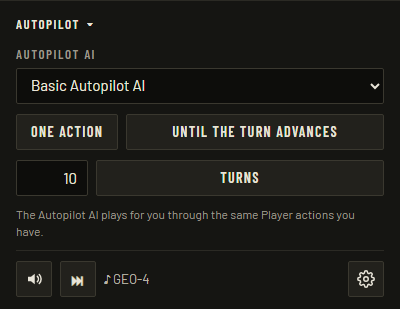
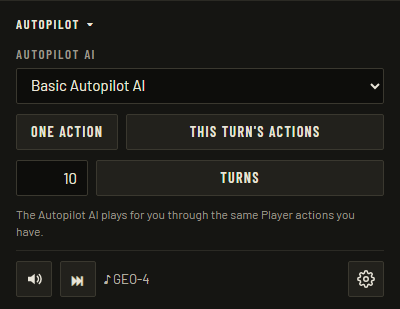
Redesign Autopilot limits: one action, this Turn's actions, or N Turns
singleAction no longer commits Advance turn, turnActions replaces
untilTurnAdvanced and stops short of advancing the Turn, and turnAdvancements
takes a count of at least 1. Under the first two limits the engine withholds
the Advance turn the Autopilot AI requests and ends the engagement with the
new disengagement reason Advance turn withheld, so the player is told when
Autopilot has nothing more to do in the Turn.

The Campaign screen names the controls One action and This Turn's actions and
shows a line when an engagement ends; the Autopilot footer Artboard is redrawn.

Changed region(s): [[0.42, 0.4078, 0.84, 0.466]]

diff --git a/docs/specs/design/foundation/autopilot.md b/docs/specs/design/foundation/autopilot.md
@@ -12,7 +12,7 @@
 
 Autopilot lets the player hand play over to an AI for a while and then take it back, e.g. to let an [Autopilot AI](engine-contract.md#principals-and-access) play out the next few [Turns](engine-contract.md#player-actions-and-turns). During each [Autopilot engagement](engine-contract.md#autopilot), the Autopilot AI plays the [Current campaign](core-concepts.md#campaign-and-session) through [Player API](engine-contract.md#api-surfaces) in place of the [Session controller](engine-contract.md#principals-and-access), as the [Engine Contract glossary](engine-contract.md#glossary) defines it.
 
-The guiding principle is that an Autopilot AI plays as an ordinary player would, and no further. It receives only [Player-visible information](engine-contract.md#api-surfaces), and it never learns when its Autopilot engagement will end. The Session controller fixes that end in advance as an Autopilot limit, counted in [Player actions](engine-contract.md#player-actions-and-turns) or Turn advancements, and can disengage [Autopilot](engine-contract.md#autopilot) sooner. What the Autopilot AI plans beyond one Autopilot engagement it keeps in [Autopilot memory](engine-contract.md#persisted-data), which moves with the [Campaign](core-concepts.md#campaign-and-session) through undo, redo, and load, so it never holds a plan written at an [Undone action](timeline.md#glossary).
+The guiding principle is that an Autopilot AI plays as an ordinary player would, and no further. It receives only [Player-visible information](engine-contract.md#api-surfaces), and it never learns when its Autopilot engagement will end. The Session controller fixes that end in advance as an Autopilot limit, i.e. one [Player action](engine-contract.md#player-actions-and-turns), the Player actions of the current Turn, or a number of Turn advancements, and can disengage [Autopilot](engine-contract.md#autopilot) sooner. When the Autopilot limit leaves the end of the Turn to the player, the engine withholds the Advance turn the Autopilot AI requests and hands play back. What the Autopilot AI plans beyond one Autopilot engagement it keeps in [Autopilot memory](engine-contract.md#persisted-data), which moves with the [Campaign](core-concepts.md#campaign-and-session) through undo, redo, and load, so it never holds a plan written at an [Undone action](timeline.md#glossary).
 
 # Glossary
 
@@ -20,9 +20,9 @@ These terms are specific to [Autopilot](engine-contract.md#autopilot). General t
 
 | Term | Definition | Prohibited synonyms |
 | --- | --- | --- |
-| Autopilot limit | The bound on an [Autopilot engagement](engine-contract.md#autopilot), fixed when Autopilot is engaged and measured in [Player actions](engine-contract.md#player-actions-and-turns) or [Turn](engine-contract.md#player-actions-and-turns) advancements. | Delegation scope |
+| Autopilot limit | The bound on an [Autopilot engagement](engine-contract.md#autopilot), fixed when Autopilot is engaged: one [Player action](engine-contract.md#player-actions-and-turns) other than Advance turn, the Player actions of the current [Turn](engine-contract.md#player-actions-and-turns), or a number of Turn advancements. | Delegation scope |
 | Autopilot engagement ID | The Independent identifier identifying one Autopilot engagement, assigned when Autopilot is engaged. |  |
-| Autopilot progress | The Player actions and Turn advancements counted toward the Autopilot limit in the current Autopilot engagement, reported to the [Session controller](engine-contract.md#principals-and-access). The [Autopilot AI](engine-contract.md#principals-and-access) does not receive it. |  |
+| Autopilot progress | The number of Player actions other than Advance turn and the number of Advance turn actions that have committed in the current Autopilot engagement, reported to the [Session controller](engine-contract.md#principals-and-access). The [Autopilot AI](engine-contract.md#principals-and-access) does not receive it. |  |
 
 # Available Autopilot AIs
 
@@ -36,17 +36,19 @@ Listing needs no Current campaign, changes nothing, and is not a Player action. 
 
 # Autopilot limits
 
-`session.autopilot.engage(autopilotAiId, limit)` engages Autopilot for the Current campaign. At most one Autopilot engagement may be active in a [Session](core-concepts.md#campaign-and-session). The complete Autopilot limit inventory is:
+`session.autopilot.engage(autopilotAiId, limit)` engages Autopilot for the Current campaign. At most one Autopilot engagement may be active in a [Session](core-concepts.md#campaign-and-session).
 
-| Autopilot limit | Input | Successful completion |
-| --- | --- | --- |
-| `singleAction` | No action count | One [Player API](engine-contract.md#api-surfaces) action successfully commits, including Advance turn if chosen. |
-| `untilTurnAdvanced` | No Turn count | The first Advance turn action successfully commits, after any preceding Player actions. |
-| `turnAdvancements` | A positive integer `count` | Exactly `count` Advance turn actions successfully commit. |
+An Autopilot AI ends each Turn it plays by requesting Advance turn once it has no other Player action to make, as a player does; it does not know its Autopilot limit, under [What an Autopilot AI receives](#what-an-autopilot-ai-receives). Each Autopilot limit therefore states whether the engine commits that Advance turn or withholds it. The complete Autopilot limit inventory is:
 
-Only Player actions or Turn advancements count toward an Autopilot limit; e.g., a query or a rejected action counts toward none. Autopilot disengages immediately at its Autopilot limit; another mutation through that Autopilot engagement is rejected.
+| Autopilot limit | Input | A requested Advance turn | The Autopilot engagement ends normally when |
+| --- | --- | --- | --- |
+| `singleAction` | None | Is withheld | One [Player API](engine-contract.md#api-surfaces) action other than Advance turn commits, with the disengagement reason limit reached; or the Autopilot AI requests Advance turn first, with the disengagement reason Advance turn withheld and no Player action committed. |
+| `turnActions` | None | Is withheld | The Autopilot AI requests Advance turn, with the disengagement reason Advance turn withheld, after any number of Player actions, including none. |
+| `turnAdvancements` | A whole number `count` of at least 1 | Commits | The `count`-th Advance turn commits, with the disengagement reason limit reached. |
 
-A malformed Autopilot limit or an unavailable Autopilot AI rejects engagement without changing [Campaign state](core-concepts.md#campaign-and-session) or creating an active Autopilot engagement.
+A withheld Advance turn is not committed: it changes no [Campaign state](core-concepts.md#campaign-and-session), [Timeline](engine-contract.md#persisted-data), or Autopilot memory, and it is neither a Player action nor a rejected action. An Advance turn request that the engine would reject is rejected as any other action is and withholds nothing. Autopilot progress counts only committed Player actions; e.g., a query, a rejected action, a withheld Advance turn, and an Autopilot memory write count toward none. Autopilot disengages immediately when its Autopilot limit is reached or an Advance turn is withheld; another mutation through that Autopilot engagement is rejected.
+
+A malformed Autopilot limit, e.g. `turnAdvancements` with a `count` of 0, or an unavailable Autopilot AI rejects engagement without changing [Campaign state](core-concepts.md#campaign-and-session) or creating an active Autopilot engagement.
 
 # What an Autopilot engagement holds
 
@@ -65,13 +67,13 @@ An active Autopilot engagement holds nothing else; e.g., it holds no wall-clock 
 
 During its Autopilot engagement, an Autopilot AI may make Player API queries, Player API actions, and [Autopilot memory API](engine-contract.md#api-surfaces) operations, under [API hierarchy](engine-contract.md#api-hierarchy). The engine supplies it nothing beyond [Player-visible information](engine-contract.md#api-surfaces) and the Autopilot memory, e.g. no [Developer API](engine-contract.md#api-surfaces) result and no Campaign save.
 
-The Autopilot AI does not receive its Autopilot limit or Autopilot progress, so it plays for the [Campaign](core-concepts.md#campaign-and-session) as a whole rather than toward the end of the Autopilot engagement; a plan extending beyond the Autopilot limit is carried forward in Autopilot memory. The Autopilot AI never decides when an Autopilot engagement ends: it ends only for a disengagement reason under [Autopilot lifecycle and concurrency](#autopilot-lifecycle-and-concurrency).
+The Autopilot AI does not receive its Autopilot limit or Autopilot progress, so it plays for the [Campaign](core-concepts.md#campaign-and-session) as a whole rather than toward the end of the Autopilot engagement; a plan extending beyond the Autopilot limit is carried forward in Autopilot memory. The Autopilot AI has no operation that ends an Autopilot engagement: the engine judges its requests against the Autopilot limit it does not know, and the Autopilot engagement ends only for a disengagement reason under [Autopilot lifecycle and concurrency](#autopilot-lifecycle-and-concurrency).
 
 Each Autopilot engagement starts with only Player-visible information and the Autopilot memory. Nothing else carries over into it, e.g. nothing from an earlier Autopilot engagement or from an Undone action.
 
 # Autopilot lifecycle and concurrency
 
-`session.autopilot.getStatus(engagementId)` reports the Autopilot limit, Autopilot progress, and execution status to the Session controller. The complete disengagement reason inventory is limit reached, disengaged by controller, campaign ended, and AI failed. A disengagement result identifies the reason, whether the Autopilot limit was reached, and Autopilot progress. Campaign completion before the Autopilot limit is reached disengages with campaign ended; reaching the Autopilot limit on the same action takes precedence as limit reached. Autopilot disengages as AI failed when the Autopilot AI reports an error, produces no valid action, or exhausts its configured finite execution budget. That budget prevents indefinitely repeated invalid actions or an Autopilot AI that makes no progress; its exact limits are listed under [TODOs](#todos).
+`session.autopilot.getStatus(engagementId)` reports the Autopilot limit, Autopilot progress, and execution status to the Session controller. The complete disengagement reason inventory is limit reached, Advance turn withheld, disengaged by controller, campaign ended, and AI failed; [Autopilot limits](#autopilot-limits) states when the first two apply. A disengagement result identifies the reason and Autopilot progress, so the Session controller can tell, e.g., that Advance turn withheld with no Player action committed means the Autopilot AI had nothing more to do this Turn. Campaign completion before the Autopilot limit is reached disengages with campaign ended; reaching the Autopilot limit on the same action takes precedence as limit reached. Autopilot disengages as AI failed when the Autopilot AI reports an error, produces no valid action, or exhausts its configured finite execution budget. That budget prevents indefinitely repeated invalid actions, an Autopilot AI that makes no progress, and one that never requests Advance turn; its exact limits are listed under [TODOs](#todos).
 
 Campaign mutations are serialized. During an Autopilot engagement, the Session controller may read Player API queries, Session status, [Timeline](engine-contract.md#persisted-data) status, and Autopilot status, read and change [Global configuration](engine-contract.md#persisted-data), and disengage Autopilot. All other [Session API](engine-contract.md#api-surfaces) operations, Session controller gameplay mutations, and [Developer API](engine-contract.md#api-surfaces) operations are unavailable until disengagement completes. `session.autopilot.disengage(engagementId)` requests disengagement between atomic actions. An action already executing either commits completely or fails without effects. Disengagement never implicitly ends a Turn or undoes earlier Player actions. Failure of the Autopilot AI follows the same boundary rule. A late response from a completed Autopilot engagement cannot change Campaign state or write Autopilot memory. Timeline navigation remains available after disengagement.
 
@@ -81,7 +83,7 @@ Engaging Autopilot writes an [Autosave](saves.md#autosave-kinds), and no [Turn-e
 
 A Campaign has at most one Autopilot memory, and that Autopilot memory records which Autopilot AI wrote it. A newly created Campaign has no Autopilot memory.
 
-`autopilotMemory.read()` returns the Autopilot memory most recently written at or before the current Committed state, or an explicit absence when there is none. `autopilotMemory.write(memory)` atomically replaces the Autopilot memory. Writing is not a Timeline entry, does not change Campaign state or any gameplay outcome, and does not count toward the Autopilot limit. Only the active Autopilot AI can read or write Autopilot memory; the Session controller cannot inject knowledge through Autopilot memory API.
+`autopilotMemory.read()` returns the Autopilot memory most recently written at or before the current Committed state, or an explicit absence when there is none. `autopilotMemory.write(memory)` atomically replaces the Autopilot memory. Writing is not a Timeline entry, does not change Campaign state or any gameplay outcome, and does not count in Autopilot progress. Only the active Autopilot AI can read or write Autopilot memory; the Session controller cannot inject knowledge through Autopilot memory API.
 
 Engaging Autopilot with an Autopilot AI other than the one that wrote the Autopilot memory discards that Autopilot memory at engagement, at every Committed state the Timeline can restore. The newly engaged Autopilot AI reads absence until it writes. Campaign saves written earlier are unchanged.
 
@@ -95,6 +97,8 @@ A Campaign save holds the Autopilot memory under [Campaign save contents](saves.
 
 # Edge cases and failure behavior
 
+An Autopilot engagement can end with no Player action committed, e.g. under `singleAction` or `turnActions` when the Autopilot AI first requests Advance turn, or when the Session controller disengages before any action commits. It then leaves Campaign state and the Timeline as they were, though the Autopilot AI may have written Autopilot memory, and it still writes its Autosaves, under [Autosaves](saves.md#autosaves) in Saves.
+
 Autopilot disengagement and failure of the Autopilot AI preserve every Player action. An Autopilot AI that calls an operation outside its access is rejected without changing anything, under [Committed state integrity](engine-contract.md#committed-state-integrity).
 
 Timeline navigation cannot erase what a human has seen. The information the engine itself supplies to an Autopilot AI nevertheless follows [What an Autopilot AI receives](#what-an-autopilot-ai-receives).
@@ -104,7 +108,7 @@ Timeline navigation cannot erase what a human has seen. The information the engi
 - **Listing Autopilot AIs:** With Autopilot AIs X and Y available and no Current campaign, `listAutopilotAis()` reports X and Y. Create a Campaign, engage Autopilot with X, which writes Autopilot memory, and wait for disengagement. `listAutopilotAis()` reports X as the one that wrote the Autopilot memory. `engage` with an `autopilotAiId` that was not listed is rejected ([Available Autopilot AIs](#available-autopilot-ais), [Autopilot limits](#autopilot-limits)).
 
 - **Limit accounting:** In `singleAction`, repeated queries and a rejected action do not reach the Autopilot limit; one committed gameplay action does. In `turnAdvancements` with count 2, ordinary actions do not increase Autopilot progress; the second committed Advance turn disengages Autopilot before a third can execute ([Autopilot limits](#autopilot-limits)).
-- **Engagement ends at the first Advance turn:** Engage Autopilot with `untilTurnAdvanced`. Its first committed Advance turn disengages Autopilot, and a later action through that Autopilot engagement is rejected ([Autopilot limits](#autopilot-limits)).
+- **Engagement ends at the first Advance turn:** Engage Autopilot with `turnAdvancements` and count 1. Its first committed Advance turn disengages Autopilot, and a later action through that Autopilot engagement is rejected ([Autopilot limits](#autopilot-limits)).
 - **Autopilot memory follows undo and redo:** At Committed state P, Autopilot AI X writes plan M. Later in the same Turn, at Committed state Q, it observes a newly revealed outcome and writes M2. Undo to P and engage Autopilot with X again: it reads M, and nothing from Q is supplied to it. Save at P with its Undone actions, load, and redo to Q: X reads M2 ([Autopilot memory](#autopilot-memory), [What an Autopilot AI receives](#what-an-autopilot-ai-receives)).
 - **A different Autopilot AI discards Autopilot memory:** Autopilot AI X writes plan M and Autopilot disengages. Engage Autopilot with Autopilot AI Y: Y reads absence. Disengage, undo to an earlier Committed state, and engage Autopilot with X: X also reads absence ([Autopilot memory](#autopilot-memory)).
 - **Disengagement during an action:** Disengage Autopilot during an action. The action either commits completely or fails without effects; earlier Player actions remain ([Autopilot lifecycle and concurrency](#autopilot-lifecycle-and-concurrency)).

diff --git a/docs/specs/design/ui/screens/campaign-screen.md b/docs/specs/design/ui/screens/campaign-screen.md
@@ -98,11 +98,11 @@ The Autopilot controls in the footer of the Side panel let the Player hand play 
 
 1. The toggle, which collapses them again.
 2. **Autopilot AI:** a selector of the Autopilot AIs that `session.autopilot.listAutopilotAis()` reports, by name.
-3. **One action** and **Until the [Turn](../../foundation/engine-contract.md#player-actions-and-turns) advances:** neutral buttons that engage the chosen Autopilot AI with `session.autopilot.engage(autopilotAiId, limit)` and the [Autopilot limit](../../foundation/autopilot.md#glossary) `singleAction` or `untilTurnAdvanced`.
-4. **Turns:** a field for a positive whole number of Turns and a neutral Turns button that engages with the Autopilot limit `turnAdvancements` and that number as `count`.
+3. **One action** and **This [Turn](../../foundation/engine-contract.md#player-actions-and-turns)'s actions:** neutral buttons that engage the chosen Autopilot AI with `session.autopilot.engage(autopilotAiId, limit)` and the [Autopilot limit](../../foundation/autopilot.md#glossary) `singleAction` or `turnActions`. Neither ever advances the Turn, which is left to the Player.
+4. **Turns:** a field for a whole number of Turns of at least 1 and a neutral Turns button that engages with the Autopilot limit `turnAdvancements` and that number as `count`.
 5. A line in 12 px Body and Text muted saying that the Autopilot AI plays for the Player through the same Player actions the Player has.
 
-The selector and the engaging buttons are disabled, each with the reason as its tooltip, while an Autopilot engagement is active, after the Campaign has ended, and when no Autopilot AI is available. While an Autopilot engagement is active, its [Autopilot progress](../../foundation/autopilot.md#glossary), in Player actions and Turns advanced as `session.autopilot.getStatus(engagementId)` reports them, and a neutral Stop button that calls `session.autopilot.disengage(engagementId)` stand in the collapsed row and in place of the line in the expanded controls. When the Autopilot engagement ends, the GUI tells the Player its disengagement reason and Autopilot progress, e.g. "Autopilot disengaged because its limit was reached: 14 Player actions, 3 Turns advanced".
+The selector and the engaging buttons are disabled, each with the reason as its tooltip, while an Autopilot engagement is active, after the Campaign has ended, and when no Autopilot AI is available. While an Autopilot engagement is active, its [Autopilot progress](../../foundation/autopilot.md#glossary), in Player actions and Turns advanced as `session.autopilot.getStatus(engagementId)` reports them, and a neutral Stop button that calls `session.autopilot.disengage(engagementId)` stand in the collapsed row and in place of the line in the expanded controls. When the Autopilot engagement ends, a line in 12 px Body and Text muted takes the place of the progress and the Stop button and tells the Player in plain words its disengagement reason and Autopilot progress, e.g. "Autopilot disengaged because its limit was reached: 14 Player actions, 3 Turns advanced". It stays until Autopilot is engaged again or the [Committed state](../../foundation/engine-contract.md#player-actions-and-turns) changes. For the disengagement reason Advance turn withheld, the line says that the Autopilot AI has left Advance turn to the Player, and, when no Player action was committed, that it has nothing more to do this Turn; e.g., "Autopilot finished this Turn's actions: 6 Player actions. Advancing the Turn is up to you." or "Autopilot has nothing more to do this Turn."
 
 # Undo and redo
 
@@ -125,7 +125,7 @@ The operations are those of [Action navigation](../../foundation/timeline.md#act
 
 ![Settings panel Artboard: the Settings dialog that the Settings button opens, with its close control, the Music volume slider, the Sounds toggle and Sounds volume slider, the Autosave limit, and the Keyboard shortcuts and Developer tools buttons](../../../../images/artboards/settings-panel.png)
 
-![Side panel footer Artboard with the Autopilot controls expanded: the Autopilot toggle, the Autopilot AI selector, the One action and Until the Turn advances buttons, the number of Turns with its Turns button, the line on how the Autopilot AI plays, and the Music row with the Settings button](../../../../images/artboards/autopilot-footer.png)
+![Side panel footer Artboard with the Autopilot controls expanded: the Autopilot toggle, the Autopilot AI selector, the One action and This Turn's actions buttons, the number of Turns with its Turns button, the line on how the Autopilot AI plays, and the Music row with the Settings button](../../../../images/artboards/autopilot-footer.png)
 
 The [Artboards](../visual-design.md#glossary) show the Situation panel and the Agents Detail view as sample content of their regions; each is detailed by its own specification and Artboard. The Settings panel Artboard shows the dialog that the Settings button opens, under [Settings panel](../gui.md#settings-panel) in the Graphical User Interface. The Side panel footer Artboard shows the footer with the Autopilot controls expanded and no Autopilot engagement active, under [Autopilot controls](#autopilot-controls). The following appear only on the Artboards and must not be implemented, under [Reading Artboards](../visual-design.md#reading-artboards) in Visual Design:
 

diff --git a/docs/derived/glossary.md b/docs/derived/glossary.md
@@ -34,10 +34,10 @@ This page inventories declared glossary entries. It does not establish terminolo
 | Autopilot AI | The Principal that plays through Player API while Autopilot is engaged, with access only to Player-visible information and Autopilot memory. | [ENG — Engine Contract](../specs/design/foundation/engine-contract.md#glossary) |
 | Autopilot engagement | One period from engaging to disengaging Autopilot. [Autopilot](../specs/design/foundation/autopilot.md) owns what bounds an Autopilot engagement and why it ends. | [ENG — Engine Contract](../specs/design/foundation/engine-contract.md#glossary) |
 | Autopilot engagement ID | The Independent identifier identifying one Autopilot engagement, assigned when Autopilot is engaged. | [AUTO — Autopilot](../specs/design/foundation/autopilot.md#glossary) |
-| Autopilot limit | The bound on an [Autopilot engagement](../specs/design/foundation/engine-contract.md#autopilot), fixed when Autopilot is engaged and measured in [Player actions](../specs/design/foundation/engine-contract.md#player-actions-and-turns) or [Turn](../specs/design/foundation/engine-contract.md#player-actions-and-turns) advancements. | [AUTO — Autopilot](../specs/design/foundation/autopilot.md#glossary) |
+| Autopilot limit | The bound on an [Autopilot engagement](../specs/design/foundation/engine-contract.md#autopilot), fixed when Autopilot is engaged: one [Player action](../specs/design/foundation/engine-contract.md#player-actions-and-turns) other than Advance turn, the Player actions of the current [Turn](../specs/design/foundation/engine-contract.md#player-actions-and-turns), or a number of Turn advancements. | [AUTO — Autopilot](../specs/design/foundation/autopilot.md#glossary) |
 | Autopilot memory | Data an Autopilot AI writes through Autopilot memory API to carry its plans across Autopilot engagements. It belongs to one Campaign, is not Campaign state, and game behavior never consults it. A Campaign has at most one Autopilot memory at each Committed state: the one most recently written at or before that Committed state. Undo, redo, and load therefore restore the Autopilot memory of the Committed state they restore, as [Autopilot memory](../specs/design/foundation/autopilot.md#autopilot-memory) in Autopilot specifies. | [ENG — Engine Contract](../specs/design/foundation/engine-contract.md#glossary) |
 | Autopilot memory API | The API surface through which the active Autopilot AI reads and writes Autopilot memory. | [ENG — Engine Contract](../specs/design/foundation/engine-contract.md#glossary) |
-| Autopilot progress | The Player actions and Turn advancements counted toward the Autopilot limit in the current Autopilot engagement, reported to the [Session controller](../specs/design/foundation/engine-contract.md#principals-and-access). The [Autopilot AI](../specs/design/foundation/engine-contract.md#principals-and-access) does not receive it. | [AUTO — Autopilot](../specs/design/foundation/autopilot.md#glossary) |
+| Autopilot progress | The number of Player actions other than Advance turn and the number of Advance turn actions that have committed in the current Autopilot engagement, reported to the [Session controller](../specs/design/foundation/engine-contract.md#principals-and-access). The [Autopilot AI](../specs/design/foundation/engine-contract.md#principals-and-access) does not receive it. | [AUTO — Autopilot](../specs/design/foundation/autopilot.md#glossary) |
 | Autosave | A Campaign save that the engine writes without a save request from the [Session controller](../specs/design/foundation/engine-contract.md#principals-and-access), under [Autosaves](../specs/design/foundation/saves.md#autosaves). | [SAVES — Saves](../specs/design/foundation/saves.md#glossary) |
 | Autosave limit | The number of Turns whose Turn-end Autosave is kept for one Campaign. It is a setting in [Global configuration](../specs/design/foundation/engine-contract.md#persisted-data). | [SAVES — Saves](../specs/design/foundation/saves.md#glossary) |
 | Away | Of a Serving Agent: not In base, i.e. In transit to any Assignment, Deployed, or At assignment on an Away Assignment, whatever its current health and exhaustion. | [AGENT — Agents](../specs/design/mechanics/agents-spec.md#glossary) |

diff --git a/docs/specs/design/foundation/saves.md b/docs/specs/design/foundation/saves.md
@@ -103,7 +103,7 @@ The following rules are complete.
 - **The Current Autosave cannot be turned off:** No setting disables the Current Autosave, and it does not count toward the Autosave limit.
 - **Autosave limit:** The Autosave limit is a whole number of at least 0, and its [Game build default](engine-contract.md#persisted-data) is 5. Writing a Turn-end Autosave that brings the Campaign above the Autosave limit removes the Turn-end Autosave of the earliest Turn. With an Autosave limit of 0, no Turn-end Autosave is written. The Autosave limit counts only Turn-end Autosaves.
 - **One Turn-end Autosave for each Turn:** A Turn-end Autosave written for a Turn that already has one replaces it.
-- **Autopilot engagements:** No Turn-end Autosave is written during an Autopilot engagement, however many Advance turn actions the [Autopilot AI](engine-contract.md#principals-and-access) commits. Engaging Autopilot replaces the Engagement Autosave, and completing disengagement replaces the Disengagement Autosave. This holds for every Autopilot engagement, including one that ends no Turn and a second one in the same Turn. The Current Autosave is replaced during an Autopilot engagement as at any other time.
+- **Autopilot engagements:** No Turn-end Autosave is written during an Autopilot engagement, however many Advance turn actions the [Autopilot AI](engine-contract.md#principals-and-access) commits. Engaging Autopilot replaces the Engagement Autosave, and completing disengagement replaces the Disengagement Autosave. This holds for every Autopilot engagement, including one that ends no Turn, one that commits no Player action, and a second one in the same Turn. The Current Autosave is replaced during an Autopilot engagement as at any other time.
 
 # Listing Campaign saves
 

diff --git a/docs/specs/design/autopilot-ais/basic-autopilot-ai.md b/docs/specs/design/autopilot-ais/basic-autopilot-ai.md
@@ -55,7 +55,7 @@ Every assignment to or from Contracting and Investigations costs one Advance tur
 
 # Turn routine
 
-During each Turn the Basic Autopilot AI makes its [Player actions](../foundation/engine-contract.md#player-actions-and-turns) in the following order, and then ends the Turn. Each step sees the Assignments the earlier steps produced, so an earlier step has first claim on Rested Agents and money.
+During each Turn the Basic Autopilot AI makes its [Player actions](../foundation/engine-contract.md#player-actions-and-turns) in the following order, and then ends the Turn by requesting Advance turn, under [Autopilot limits](../foundation/autopilot.md#autopilot-limits) in [Autopilot](../foundation/engine-contract.md#autopilot). When no step has a Player action left to make, e.g. when Autopilot is engaged again in a Turn it has already played through, its first request is Advance turn. Each step sees the Assignments the earlier steps produced, so an earlier step has first claim on Rested Agents and money.
 
 1. Recall to Standby each Agent on Contracting or Training whose exhaustion is above the Recall threshold, so that it can rest. An Agent on Contracting is recalled only while Expected income still covers projected upkeep with the margin without it (Keep Agents fit).
 2. If Expected income is below projected upkeep, assign Agents to Contracting until it is not. This step may draw on the Agent reserve and on less rested Agents (Stay solvent).
